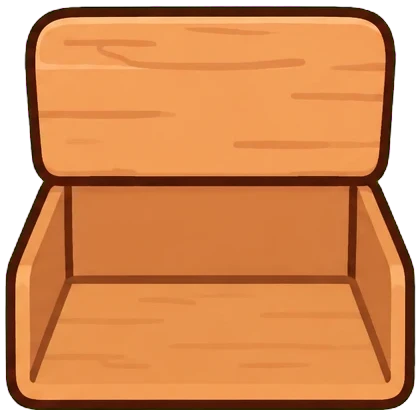
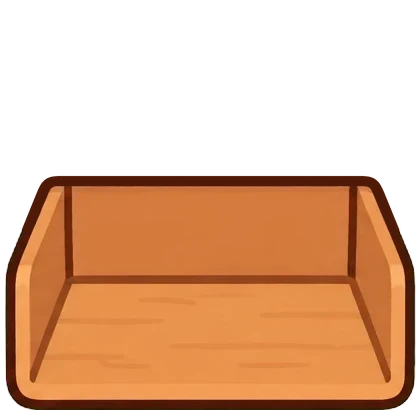
feat: 걱정상자의 숲과 카피바라를 바바 그림체로 바꾼다
- 숲 배경을 납작한 그림체의 오솔길로 바꾸고, 카피바라 포즈 여섯 장을 홈의 바바로 다시 그렸다
- 쪽지 · 손 자리(holdNote · putPaw)와 흘려보내기 길(walkPath)을 새 그림에서 다시 쟀다
- 걱정을 적는 카드를 비치지 않게 했다
- 열린 상자의 뚜껑을 지우고 윗변을 둥글게 마감했다
- 쉼터 탭 걱정상자 카드의 상자를 오솔길 위로 올렸다

diff --git a/src/design/ds/worryBox.ts b/src/design/ds/worryBox.ts
@@ -17,35 +17,40 @@ export const worryBoxLayout = {
   cardFrom: 0.24,
   /**
    * 카피바라 손의 자리 — 그림 폭(x · 몸 가운데에서 오른쪽으로) · 그림 높이(y · 발밑에서
-   * 위로)의 비율. 포즈 그림에서 쟀다(2026-10-05). 처음에는 몸 가운데 42% 높이 하나로
+   * 위로)의 비율. 포즈 그림에서 쟀다(2026-10-05 · 바바 그림으로 2026-11-06 다시 잼). 처음에는 몸 가운데 42% 높이 하나로
    * 썼는데 턱 언저리라 **쪽지가 머리에서 튀어나왔다**(사용자 피드백).
    * - `holdNote` — 받아 든 쪽지가 있는 가슴 앞(종이 카드가 날아가 닿는 곳)
    * - `putPaw` — 상자 쪽으로 뻗은 손끝(쪽지가 떠나는 곳)
    */
-  holdNote: { x: 0, y: 0.36 },
-  putPaw: { x: 0.4, y: 0.28 },
+  holdNote: { x: 0.03, y: 0.35 },
+  // 바바 넣기 포즈는 손을 가슴 높이로 뻗는다 — 옛 그림(0.28)보다 높다(2026-11-06 · 다시 잼)
+  putPaw: { x: 0.42, y: 0.43 },
   /**
    * 「흘려보낼게요」 — 카피바라가 **오솔길을 따라** 걸어 들어가는 길 (2026-10-05 · 실기기 피드백).
    *
    * 처음에는 한 점(가운데 · 바닥에서 58%)으로 곧게 올려 보냈는데, 그림의 길은 47% 남짓에서
    * 사라져서 카피바라가 나무와 하늘 쪽으로 걸어 올라갔고, 오르는 거리에 비해 너무 빨리
-   * 작아져 「제자리에서 줄어드는」 것처럼 보였다. 지금은 그림에서 잰 길을 따라 — 먼저 길
-   * 위로 한 걸음 내려서고(오른쪽) → 굽은 길을 따라 안쪽으로 → 길이 사라지는 곳까지 간다.
-   * 크기는 **길이 사라지는 곳에 가까워질수록** 줄고(원근), 멀어질수록 노을빛 안개(`haze`)에
-   * 섞인다. `t` 는 걷기의 진행(0 → 1). **그림이 바뀌면 다시 잰다.**
+   * 작아져 「제자리에서 줄어드는」 것처럼 보였다. 그 뒤로 그림에서 잰 길을 따라 길이 사라지는
+   * 곳까지 간다. 크기는 **길이 사라지는 곳에 가까워질수록** 줄고(원근), 멀어질수록 노을빛
+   * 안개(`haze`)에 섞인다. `t` 는 걷기의 진행(0 → 1). **그림이 바뀌면 다시 잰다.**
+   *
+   * 2026-11-06 숲 그림을 바꾸며 다시 쟀다 — 새 길은 가운데(폭 50%)로 곧게 올라가 바닥에서
+   * 55% 남짓에서 사라진다(iPhone 16 · `cover` 로 위아래가 잘린 자리). 옛 길(오른쪽으로 굽어
+   * 47%)을 그대로 두니 카피바라가 오른쪽 수풀로 들어가 사라졌다.
    */
   walkPath: [
     { t: 0, x: 0.4, ground: 0.4, scale: 1, haze: 0 },
-    { t: 0.3, x: 0.56, ground: 0.405, scale: 0.92, haze: 0.08 },
-    { t: 0.6, x: 0.65, ground: 0.43, scale: 0.58, haze: 0.25 },
-    { t: 0.8, x: 0.68, ground: 0.448, scale: 0.34, haze: 0.4 },
-    { t: 1, x: 0.69, ground: 0.462, scale: 0.17, haze: 0.55 },
+    { t: 0.3, x: 0.46, ground: 0.43, scale: 0.86, haze: 0.08 },
+    { t: 0.6, x: 0.49, ground: 0.48, scale: 0.56, haze: 0.25 },
+    { t: 0.8, x: 0.5, ground: 0.515, scale: 0.34, haze: 0.4 },
+    { t: 1, x: 0.5, ground: 0.54, scale: 0.17, haze: 0.55 },
   ],
   /**
    * 카피바라 그림 상자의 가로 ÷ 세로 — 앉은 포즈 넷은 560 × 600, 상자를 인 뒷모습은
-   * 560 × 830(`scripts/keyout-worry-box.py`). 폭이 같아서 화면에서 같은 크기로 보인다
+   * 560 × 880(`scripts/keyout-worry-box.py` · 2026-11-06 바바로 바꾸며 830 → 880).
+   * 폭이 같아서 화면에서 같은 크기로 보인다
    */
-  capybaraAspect: { sit: 560 / 600, walk: 560 / 830 },
+  capybaraAspect: { sit: 560 / 600, walk: 560 / 880 },
 } as const;
 
 export const worryBoxSize = {

diff --git a/app/rest/worry-box.tsx b/app/rest/worry-box.tsx
@@ -385,7 +385,13 @@ const styles = StyleSheet.create({
   panelWrap: { position: "absolute", left: 0, right: 0, bottom: 0 },
   panel: { paddingHorizontal: space.xl, gap: space.md },
   writePanel: { gap: space.sm },
-  writeCard: { paddingVertical: space.sm, paddingHorizontal: space.lg, gap: space.xs },
+  // 걱정을 적는 카드는 비치지 않는다 — 장면이 비치면 적는 글에 눈이 덜 간다(2026-11-06 · 사용자 요청)
+  writeCard: {
+    backgroundColor: restScene.surface,
+    paddingVertical: space.sm,
+    paddingHorizontal: space.lg,
+    gap: space.xs,
+  },
   mid: { textAlign: "center" },
   choice: {
     flexDirection: "row",

diff --git a/src/components/rest/restThemes.ts b/src/components/rest/restThemes.ts
@@ -39,7 +39,8 @@ export const REST_THEMES: Record<RestContentId, RestTheme> = {
       source: require("../../../assets/worry-box/box-closed.webp"),
       width: 72,
       height: 70,
-      bottom: 6,
+      // 오솔길 위로 올려 앉힌다 — 6 은 이름 칸에 붙어 낮아 보였다(2026-11-06 · 사용자 요청)
+      bottom: 22,
     },
   },
   treasureBox: {

diff --git a/scripts/keyout-worry-box.py b/scripts/keyout-worry-box.py
@@ -1,35 +1,36 @@
-"""걱정상자의 그림 다섯 장을 앱 자산으로 만든다 (2026-10-05).
+"""걱정상자의 그림을 앱 자산으로 만든다 (2026-10-05 · 2026-11-06 카피바라 · 숲 교체).
 
-`assets/worry-box/source/`(이력에 담지 않는다)의 다섯 장을 읽는다 — `sit.webp` 말고는
-ChatGPT 로 생성했고, 배경을 뺀 셋은 순수 초록(#00FF00) 위에 그렸다. 걷어 내는 법은 몸에 힘 빼기와
-같다(`keyout-body-release.py` 머리말 — 초록 세기로 알파를 내고, 섞인 가장자리는 배경색을
-빼서 되살리고, 남은 초록은 누른다).
+`assets/worry-box/source/`(이력에 담지 않는다)의 그림을 읽는다. 카피바라 두 장은 홈의 바바
+(`assets/home/v2/baba-composite.png`)를 참고 그림으로 붙여 ChatGPT 로 그렸고, 순수 초록(#00FF00)
+위에 있다. 걷어 내는 법은 몸에 힘 빼기와 같다(`keyout-body-release.py` 머리말 — 초록 세기로 알파를
+내고, 섞인 가장자리는 배경색을 빼서 되살리고, 남은 초록은 누른다).
 
-| 원본          | 무엇                                     | 만드는 것                                   |
-| ------------- | ---------------------------------------- | ------------------------------------------- |
-| `forest.webp` | 저녁 숲속 오솔길                         | `forest.webp`                               |
-| `poses.webp`  | 2×2 — (받기) · 쪽지 들기 · 넣기 · 곁에서 쉬기 | `capybara-{hold,put,rest}.webp` — 받기는 쓰지 않는다 |
-| `walk.webp`   | 상자를 인 뒷모습 두 걸음                 | `capybara-walk{1,2}.webp`                   |
-| `box.webp`    | 열린 상자 뒤판 · 앞판 · 닫힌 상자        | `box-{back,front,closed}.webp`              |
-| `sit.webp`    | 두 손을 배에 얹은 기본 앉은 자세(흰 바탕) | `capybara-sit.webp`                         |
+| 원본          | 무엇                                           | 만드는 것                              |
+| ------------- | ---------------------------------------------- | -------------------------------------- |
+| `forest.webp` | 숲속 오솔길(납작한 그림체 · 사용자 제공)        | `forest.webp`                          |
+| `poses.webp`  | 2×2 — 앉기 · 쪽지 들기 · 넣기 · 곁에서 쉬기     | `capybara-{sit,hold,put,rest}.webp`    |
+| `walk.webp`   | 상자를 인 뒷모습 두 걸음                       | `capybara-walk{1,2}.webp`              |
+| `box.webp`    | 열린 상자 뒤판 · 앞판 · 닫힌 상자               | `box-{back,front,closed}.webp`         |
 
-⚠ **처음 자세는 따로 받은 그림이다** (2026-10-07 · 사용자 제공). 처음에는 몸에 힘 빼기의
-기본 포즈를 빌려 오른발을 왼발을 뒤집어 덮어 썼는데, 두 발이 다 정면인 그림으로 바꿨다.
-이 그림만 **흰 바탕**이라 초록 대신 흰색을 걷어 낸다(`keyout_white`). 같은 캐릭터라
-이어지고, 머리 폭이 다른 포즈(390)의 두 배로 그려져 있어서 절반으로 줄인다(`SIT_SCALE`).
-그 그림은 생성 그림보다 옅은 주황이라, 다음 포즈로 넘어갈 때 색이 바뀌지 않게 **부위마다
-생성 그림의 색으로 옮긴다**(`recolor` · `SIT_TO_POSES`).
+⚠ **2026-11-06 — 카피바라를 홈의 바바로 바꿨다.** 그 전에는 주황빛 카피바라였고 처음 자세만 따로 받은
+흰 바탕 그림이라 색을 옮겨 맞췄다(`recolor`). 이제 네 자세가 한 장에서 나와 그럴 일이 없다.
+상자 원본(`box.webp`)은 지금 기기에 없다 — 없으면 상자 세 장은 그대로 두고 뒤판의 뚜껑만 지운다.
+열린 상자에는 **뚜껑이 없다**(2026-11-06) — 뒤판 위에 세워 두었던 뚜껑을 지우고 윗변을 둥글게 다시 그었다(`drop_lid`).
 
 ## 같은 상자에 맞춘다
 
+- 새 그림은 옛 그림보다 작게 그려져 있어 `SCALE` 로 키운다 — 앉은 자세의 키가 옛 그림(577px)과 같다.
+  그래서 화면의 카피바라 크기(`worryBoxSize.capybara`)는 그대로다
 - 앉은 포즈 넷은 **발밑을 바닥에, 두 발의 가운데를 가운데에** 맞춘다. 넣기 포즈는 몸을
   돌려 머리가 옆으로 가 있어서, 머리가 아니라 발로 맞춰야 갈아 끼울 때 몸이 미끄러지지 않는다
-- 뒷모습 둘은 같은 폭의 더 높은 상자에 같은 방식으로 맞춘다(크기는 그대로 — 앉은 포즈와
-  몸 폭이 같다)
+- 뒷모습 둘은 같은 폭의 더 높은 상자에 **몸 전체의 가운데**로 맞춘다(같은 배율 — 앉은 포즈와
+  몸 폭이 같다). 새 그림은 앞으로 내딛은 발이 걸음마다 왼쪽 · 오른쪽으로 바뀌어서, 발로 맞추면
+  걸음마다 몸이 옆으로 튄다
 - 상자 셋은 **바닥과 가로 가운데**를 맞춘다. 그래서 앞판이 뒤판의 아랫부분을 정확히 덮고,
   쪽지가 그 사이로 내려가면 상자 안에 들어간 것으로 보인다
 
-다시 만들 때: `python3 scripts/keyout-worry-box.py` (Pillow · numpy 필요). 빌드에 끼지 않는다.
+다시 만들 때: `uv run --no-project --with numpy --with pillow python scripts/keyout-worry-box.py`.
+빌드에 끼지 않는다.
 """
 
 from pathlib import Path
@@ -43,27 +44,21 @@ SRC = ROOT / "source"
 KEEP, DROP = 60, 200
 
 # 상자 크기(가로 × 세로) — 가장 넓은 · 가장 높은 것을 여유 있게 담는다. 앉은 포즈와 뒷모습은
-# 폭이 같아야 화면에서 같은 크기로 보인다(뒷모습은 발이 팔 가운데에 있지 않아 560 이 필요했다)
+# 폭이 같아야 화면에서 같은 크기로 보인다. ⚠ 바꾸면 `ds/worryBox.ts` 의 `capybaraAspect` 도 바꾼다
 SIT_BOX = (560, 600)
-WALK_BOX = (560, 830)
+WALK_BOX = (560, 880)
 CHEST_BOX = (420, 410)
-# 처음 자세 그림을 다른 포즈 크기로 맞추는 배율 — 머리 폭 390 ÷ 780
-SIT_SCALE = 390 / 780
-# 흰 바탕 걷어 내기 — 이보다 밝으면 바탕 후보, 외곽선(진한 갈색)에 닿는 띠의 폭(px)
-WHITE_MIN, EDGE_BAND = 240, 7
+# 새 카피바라 그림을 옛 그림 크기로 맞추는 배율 — 앉은 자세의 키 577 ÷ 525(2026-11-06)
+SCALE = 577 / 525
+# 열린 상자 뒤판에서 세워 둔 뚜껑을 지우는 줄 — 이보다 위가 뚜껑이고, 이 줄부터가 뚜껑과
+# 뒷벽이 함께 쓰는 외곽선이다(2026-11-06 · 사용자 요청 「처음 상자의 뚜껑을 없애」)
+LID_CUT = 176
+# 뚜껑을 지운 윗변의 마감 — 외곽선 굵기 · 모서리 둥글기(블러 시그마) · 슈퍼샘플 · 새로 그리는 줄의 끝.
+# 그냥 자르면 뚜껑 외곽선의 양 끝이 날개처럼 튀어나오고 모서리가 각졌다(2026-11-06 · 사용자 피드백)
+RIM, RIM_ROUND, RIM_SS, RIM_TO = 10, 7, 4, 230
+RIM_INK = (78, 27, 8)
 # 발의 가운데를 잴 때 보는 아래쪽 줄 수
 FEET_ROWS = 80
-# 처음 자세를 다른 포즈의 색에 맞춘다 — 부위마다 (처음 자세의 색, 생성 그림의 색).
-# 둘 다 그림에서 잰 부위의 평균이다(2026-10-07)
-SIT_TO_POSES = [
-    ((232, 165, 104), (241, 156, 90)),  # 몸
-    ((204, 135, 93), (215, 131, 84)),  # 배 · 발바닥
-    ((232, 142, 103), (237, 134, 86)),  # 볼
-    ((146, 88, 64), (162, 89, 61)),  # 귀 · 주둥이 · 손발
-    ((73, 26, 6), (81, 30, 10)),  # 외곽선
-]
-# 부위 색 사이를 얼마나 부드럽게 잇는지 — 가장자리 · 명암이 끊기지 않게
-RECOLOR_SIGMA = 18
 
 
 def keyout(name: str, src: Path = SRC) -> np.ndarray:
@@ -97,36 +92,46 @@ def place(piece: np.ndarray, size: tuple[int, int], center_on_feet: bool) -> np.
     return box
 
 
-def keyout_white(name: str) -> np.ndarray:
-    """흰 바탕을 걷어 낸다 — 가장자리에서 이어진 밝은 곳만 바탕이다(몸 안의 밝은 곳은 남는다).
-    바탕에 닿는 띠는 외곽선과 흰색이 섞인 것이라, 흰색을 빼서 외곽선 색과 알파를 되살린다"""
-    img = Image.open(SRC / f"{name}.webp").convert("RGB")
-    rgb = np.asarray(img).astype(np.float32)
-    light = Image.fromarray(np.where(rgb.min(axis=2) >= WHITE_MIN, 255, 0).astype(np.uint8)).copy()
-    w, h = light.size
-    for corner in ((0, 0), (w - 1, 0), (0, h - 1), (w - 1, h - 1)):
-        if light.getpixel(corner) == 255:
-            ImageDraw.floodfill(light, corner, 128)
-    bg = np.asarray(light) == 128
-    band = np.asarray(Image.fromarray(bg.astype(np.uint8) * 255).filter(ImageFilter.MaxFilter(EDGE_BAND))) > 0
-    band &= ~bg
-    # 띠 안: 밝을수록 투명하다 — 외곽선의 밝기(그림에서 잰 평균 37)까지가 0 → 1
-    a = np.where(bg, 0.0, 1.0)
-    a[band] = np.clip((255 - rgb[band].mean(axis=1)) / (255 - 37), 0, 1)
-    safe = np.maximum(a, 0.05)[..., None]
-    fg = np.where(band[..., None], (rgb - (1 - a)[..., None] * 255) / safe, rgb)
-    return np.dstack([np.clip(fg, 0, 255), a * 255]).astype(np.uint8)
+def scaled(piece: np.ndarray) -> np.ndarray:
+    """알파를 곱한 채로 키운다 — 가장자리에 초록 · 검은 테가 생기지 않게"""
+    img = Image.fromarray(piece).convert("RGBa")
+    img = img.resize((round(img.width * SCALE), round(img.height * SCALE)), Image.LANCZOS)
+    return np.asarray(img.convert("RGBA"))
 
 
-def recolor(arr: np.ndarray, pairs: list) -> np.ndarray:
-    """부위 색마다 옮길 만큼을 가까운 정도로 섞어 더한다 — 알파는 그대로"""
-    rgb = arr[..., :3].astype(np.float32)
-    src = np.array([s for s, _ in pairs], np.float32)
-    shift = np.array([t for _, t in pairs], np.float32) - src
-    d2 = ((rgb[..., None, :] - src) ** 2).sum(-1)
-    w = np.exp(-(d2 - d2.min(-1, keepdims=True)) / (2 * RECOLOR_SIGMA**2))
-    out = rgb + (w[..., None] * shift).sum(-2) / w.sum(-1, keepdims=True)
-    return np.dstack([np.clip(out, 0, 255).round(), arr[..., 3]]).astype(np.uint8)
+def _rim_shape(h: int, w: int, lf, rf, inset: int) -> np.ndarray:
+    """옆벽의 바깥 선 둘 · 윗변으로 둘러싼 모양을 inset 만큼 안으로 들이고 위 모서리를 둥글린다"""
+    img = Image.new("L", (w * RIM_SS, h * RIM_SS), 0)
+    top, bottom = LID_CUT + inset, h + 50
+    k = float(np.sqrt(1 + lf[0] ** 2))  # 기울어진 변을 안으로 inset 만큼 옮기는 가로 거리
+    pts = [
+        (np.polyval(lf, bottom) + inset * k, bottom),
+        (np.polyval(lf, top) + inset * k, top),
+        (np.polyval(rf, top) - inset * k, top),
+        (np.polyval(rf, bottom) - inset * k, bottom),
+    ]
+    ImageDraw.Draw(img).polygon([(x * RIM_SS, y * RIM_SS) for x, y in pts], fill=255)
+    # 흐리게 한 뒤 반으로 자르면 볼록한 모서리만 둥글어지고 곧은 변은 제자리다
+    sigma = max(RIM_ROUND - inset * 0.3, 2) * RIM_SS
+    img = img.filter(ImageFilter.GaussianBlur(sigma)).point(lambda v: 255 if v >= 128 else 0)
+    return np.asarray(img.resize((w, h), Image.LANCZOS)).astype(np.float32) / 255
+
+
+def drop_lid(back: np.ndarray) -> np.ndarray:
+    """열린 상자 뒤판에서 뚜껑을 지우고 윗변을 둥글게 마감한다 — 남는 것은 뒷벽 · 옆벽 · 바닥이다.
+    옆벽의 바깥 선을 그림에서 재서 위로 잇고, 위 모서리를 둥글린 외곽선을 새로 긋는다.
+    이미 마감한 그림에 다시 해도 같다"""
+    a = back.astype(np.float32)
+    h, w = a.shape[:2]
+    ys = np.arange(LID_CUT + 30, LID_CUT + 90)
+    lf = np.polyfit(ys, [np.where(a[y, :, 3] > 128)[0].min() for y in ys], 1)
+    rf = np.polyfit(ys, [np.where(a[y, :, 3] > 128)[0].max() + 1 for y in ys], 1)
+    outer = _rim_shape(h, w, lf, rf, 0)[:RIM_TO, :, None]
+    inner = _rim_shape(h, w, lf, rf, RIM)[:RIM_TO, :, None]
+    out = a.copy()
+    out[:RIM_TO, :, :3] = a[:RIM_TO, :, :3] * inner + np.array(RIM_INK, np.float32) * (1 - inner)
+    out[:RIM_TO, :, 3] = outer[..., 0] * 255
+    return np.clip(out, 0, 255).astype(np.uint8)
 
 
 def save(arr: np.ndarray, name: str) -> None:
@@ -137,25 +142,29 @@ def main() -> None:
     Image.open(SRC / "forest.webp").convert("RGB").save(ROOT / "forest.webp", quality=86)
 
     poses = keyout("poses")
+    half = poses.shape[0] // 2
     for name, (y0, y1, x0, x1) in {
-        "hold": (0, 768, 512, 1024),
-        "put": (768, 1536, 0, 512),
-        "rest": (768, 1536, 512, 1024),
+        "sit": (0, half, 0, half),
+        "hold": (0, half, half, None),
+        "put": (half, None, 0, half),
+        "rest": (half, None, half, None),
     }.items():
-        save(place(poses[y0:y1, x0:x1], SIT_BOX, center_on_feet=True), f"capybara-{name}")
-
-    sit = Image.fromarray(keyout_white("sit")).convert("RGBa")
-    sit = sit.resize((round(sit.width * SIT_SCALE), round(sit.height * SIT_SCALE)), Image.LANCZOS)
-    sit = place(np.asarray(sit.convert("RGBA")), SIT_BOX, center_on_feet=True)
-    save(recolor(sit, SIT_TO_POSES), "capybara-sit")
+        save(place(scaled(poses[y0:y1, x0:x1]), SIT_BOX, center_on_feet=True), f"capybara-{name}")
 
     walk = keyout("walk")
-    save(place(walk[:, :768], WALK_BOX, center_on_feet=True), "capybara-walk1")
-    save(place(walk[:, 768:], WALK_BOX, center_on_feet=True), "capybara-walk2")
+    mid = walk.shape[1] // 2
+    save(place(scaled(walk[:, :mid]), WALK_BOX, center_on_feet=False), "capybara-walk1")
+    save(place(scaled(walk[:, mid:]), WALK_BOX, center_on_feet=False), "capybara-walk2")
 
-    chest = keyout("box")
-    for name, (x0, x1) in {"back": (0, 520), "front": (520, 1010), "closed": (1010, 1536)}.items():
-        save(place(chest[:, x0:x1], CHEST_BOX, center_on_feet=False), f"box-{name}")
+    if (SRC / "box.webp").exists():
+        chest = keyout("box")
+        for name, (x0, x1) in {"back": (0, 520), "front": (520, 1010), "closed": (1010, 1536)}.items():
+            piece = place(chest[:, x0:x1], CHEST_BOX, center_on_feet=False)
+            save(drop_lid(piece) if name == "back" else piece, f"box-{name}")
+    else:
+        # 상자 원본이 없을 때도 뚜껑은 지운다 — 이미 지운 그림에 다시 해도 같다
+        back = np.asarray(Image.open(ROOT / "box-back.webp").convert("RGBA"))
+        save(drop_lid(back), "box-back")
 
 
 if __name__ == "__main__":
